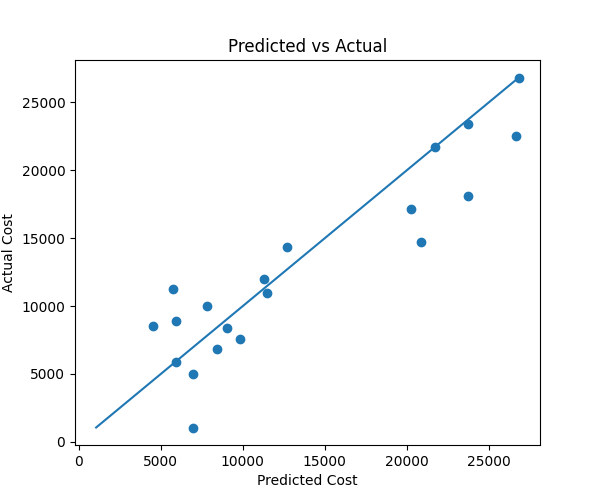
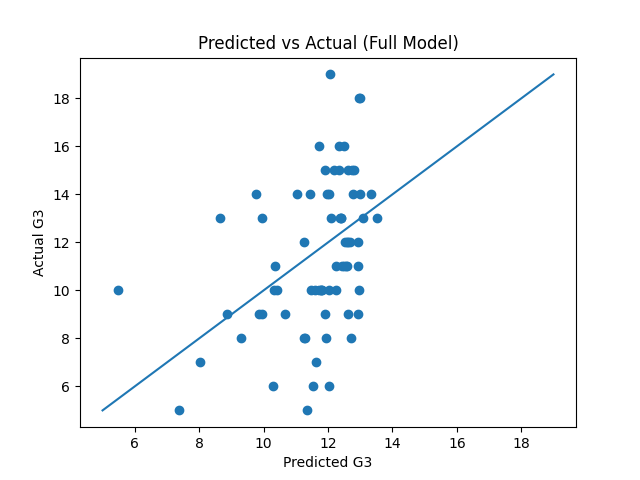
Mini-Project - Predicting Student Math Performance - Task 6

diff --git a/assignments_02/project_02.py b/assignments_02/project_02.py
@@ -186,3 +186,38 @@ for name, coef in zip(feature_cols, model.coef_):
 # For a production model, it is advisable to retain features that show meaningful predictive power and clear real-world interpretation, such as failures, studytime, higher education aspirations, and parental education levels (Medu, Fedu).
 # Features like freetime and activities contribute little to model performance and may introduce noise, while variables such as internet access and sex should be carefully evaluated due to their weak impact and potential ethical considerations.
 # Adding multiple features improves performance, but many features contribute only small amounts. A simpler model with the strongest predictors may be more robust and interpretable.
+
+# --- Task 6: Evaluate and Summarize ---
+
+y_pred = model.predict(X_test)
+
+plt.figure()
+plt.scatter(y_pred, y_test)
+
+min_val = min(min(y_pred), min(y_test))
+max_val = max(max(y_pred), max(y_test))
+plt.plot([min_val, max_val], [min_val, max_val])  # y = x line
+
+plt.title("Predicted vs Actual (Full Model)")
+plt.xlabel("Predicted G3")
+plt.ylabel("Actual G3")
+plt.savefig("outputs/predicted_vs_actual.png")
+plt.close()
+
+# Plot interpretation:
+# The errors appear roughly scattered around the diagonal, indicating no extreme bias, but the spread is fairly wide. The model tends to struggle slightly more at the higher end of grades, where predictions are often pulled toward the middle (underestimating top scores).
+# Points above the diagonal mean the model underpredicted (actual > predicted), while points below the diagonal mean the model overpredicted (actual < predicted).
+
+# Dataset size:
+# After filtering out G3=0 rows, the dataset contains approximately 395 samples. The test set is 20% of this, so about 0.2 * 395 = 79 samples.
+
+# Model performance:
+# RMSE ≈ 2.86 means predictions are typically off by about 3 grade points on a 0–20 scale, which is a noticeable error.
+# R² ≈ 0.15 means the model explains only about 15% of the variation in final grades, so most of the factors affecting performance are not captured.
+
+# Most important features:
+# Largest positive coefficient: internet (+0.834). Students with internet access tend to have higher grades.
+# Largest negative coefficient: schoolsup (-2.062). Students receiving school support tend to have lower grades, likely because support is given to struggling students (not causal).
+
+# Surprising result:
+# The strong negative effect of schoolsup is surprising at first glance, but it reflects selection bias — support is targeted at weaker students, making it appear negatively correlated with performance.